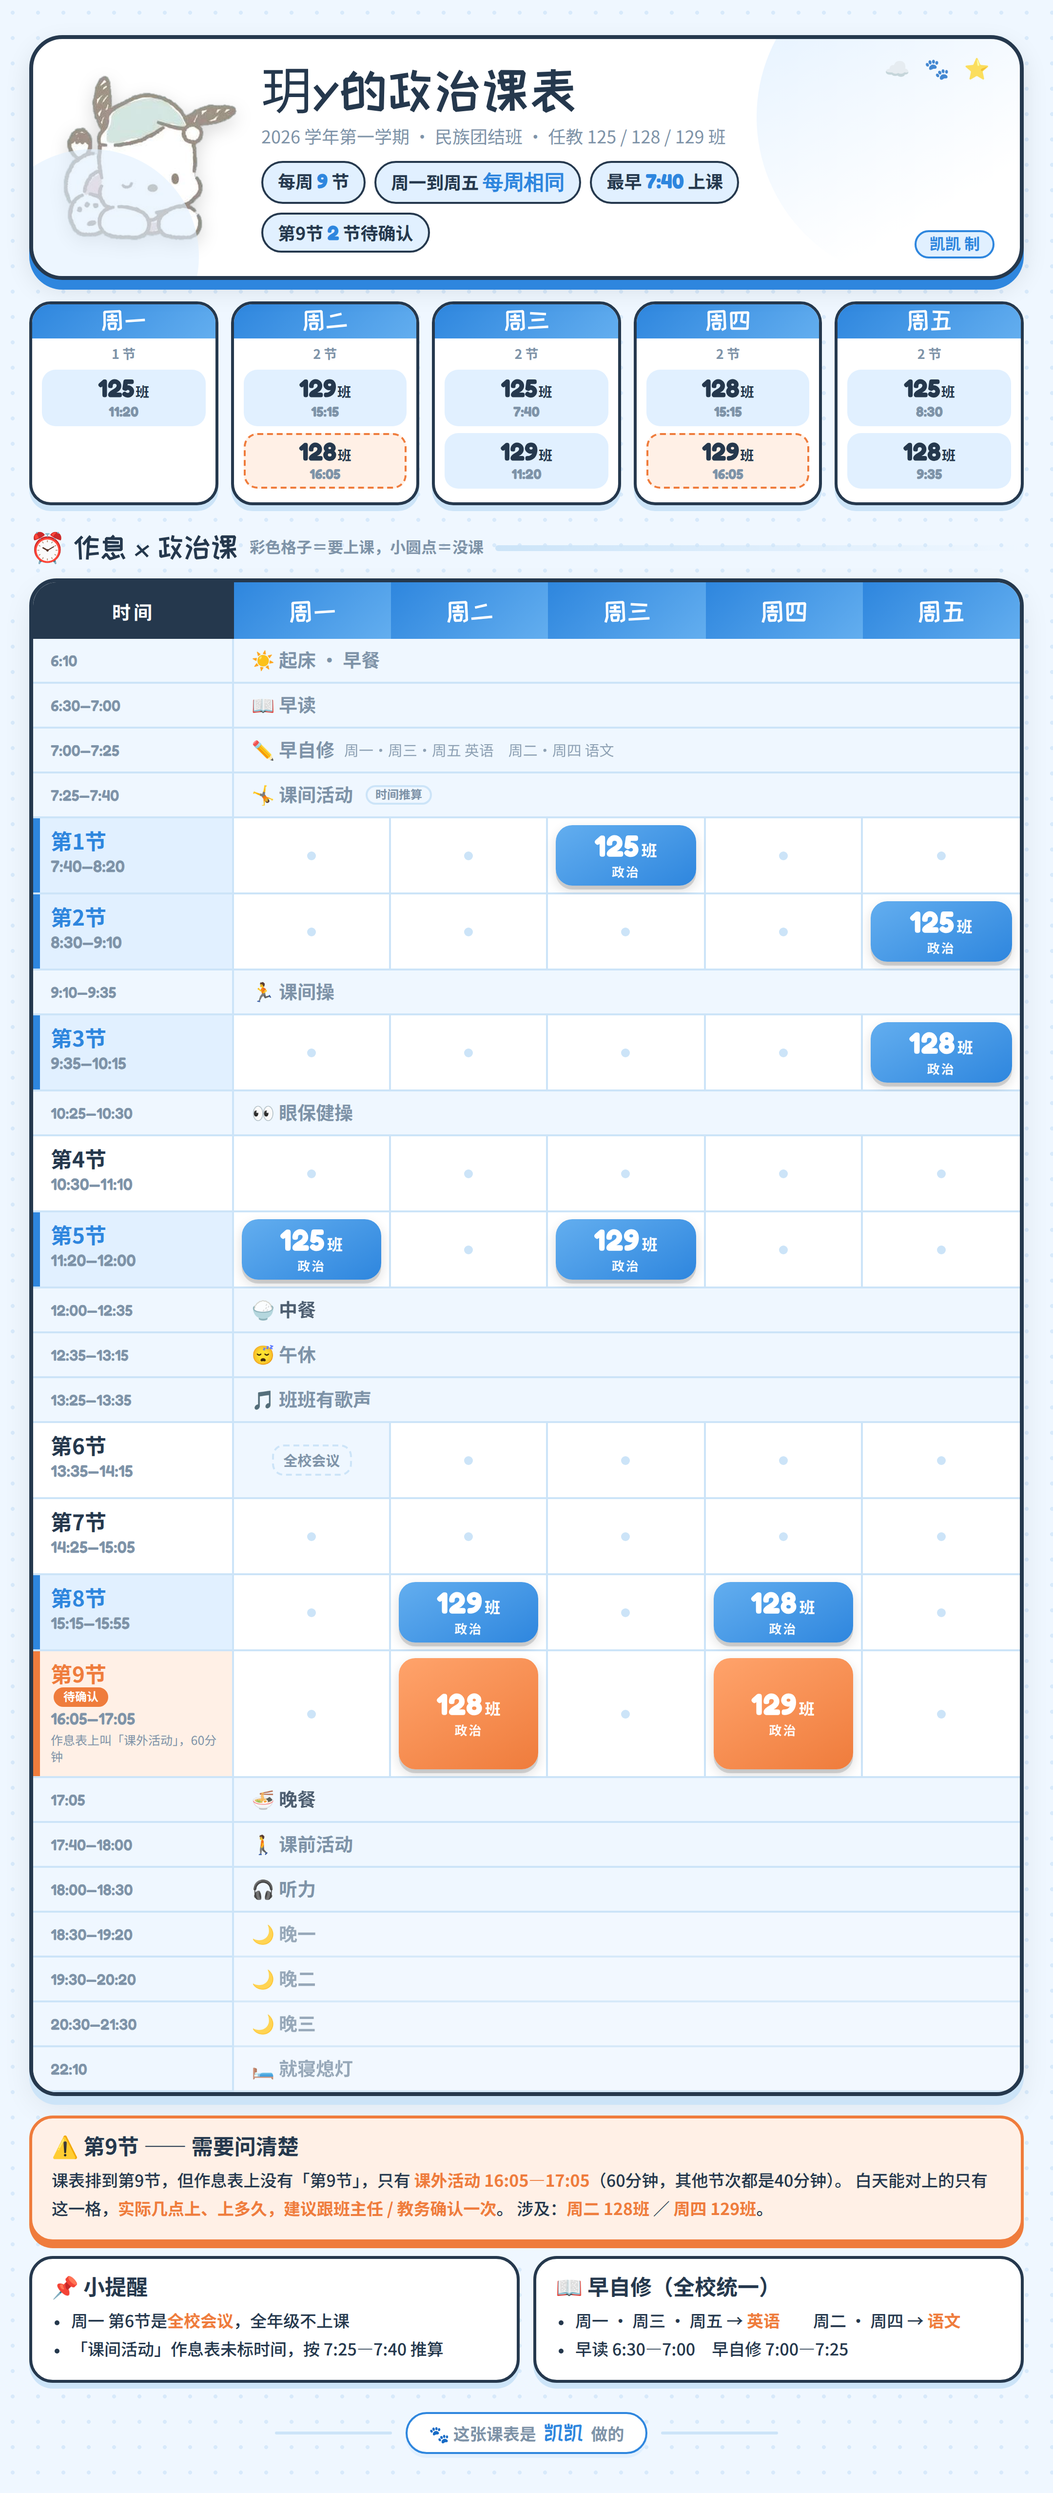
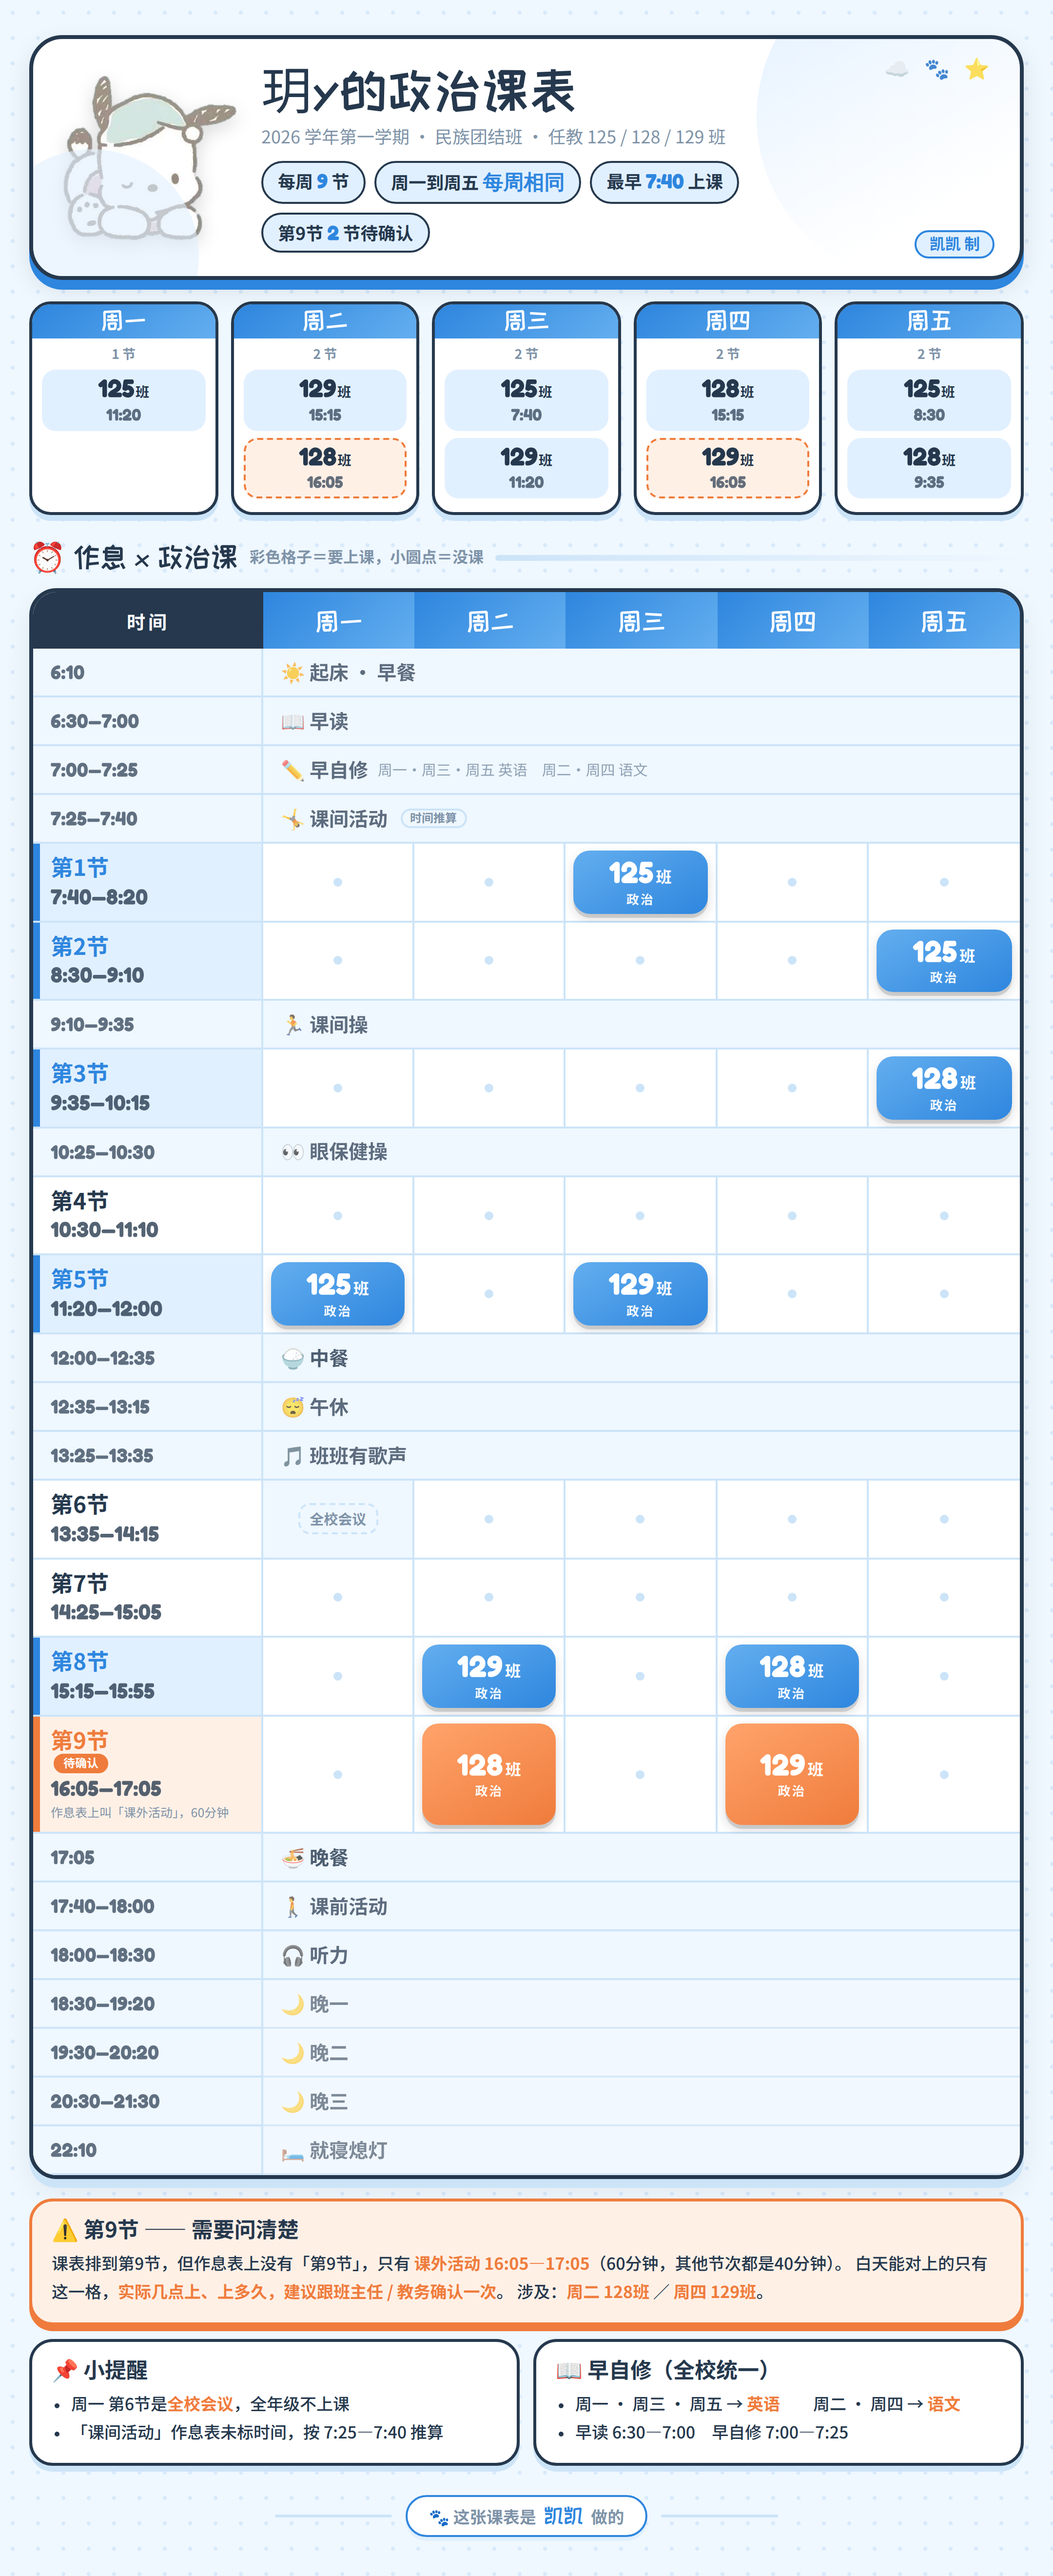
Enlarge and darken the schedule times for readability
Times were 17px in a light grey that was hard to read at a glance. Period times
go to 22px and routine-band times to 20px, both in the ink colour at reduced
opacity, with the time column widened to 236px so no range wraps.

Claude-Session: https://claude.ai/code/session_01PkbQVBneuAgKa97Dwj4CEX

diff --git a/timetable/tt_bunny.html b/timetable/tt_bunny.html
@@ -46,7 +46,7 @@ h1 small{display:block;font-size:18px;color:var(--muted);margin-top:8px;letter-s
 .gl__i b{display:block;font-size:26px;font-family:'Fredoka',sans-serif;line-height:1.05;color:var(--ink)}
 .gl__i b em{font-size:14px;font-style:normal;font-weight:700;margin-left:1px;
             font-family:'Noto Sans SC',sans-serif}
-.gl__i span{display:block;font-size:14.5px;color:var(--muted);font-weight:700;margin-top:1px}
+.gl__i span{display:block;font-size:17px;color:var(--ink);opacity:.7;font-weight:700;margin-top:2px}
 .gl__i--nine{background:var(--warnbg);outline:2.5px dashed var(--warn);outline-offset:-2px}
 
 /* ---------- 主表 ---------- */
@@ -55,7 +55,7 @@ h2{font-size:30px}
 .sec__hd .kicker{font-size:16px;color:var(--muted);font-weight:700}
 .sec__hd .bar{flex:1;height:6px;border-radius:99px;
               background:linear-gradient(90deg,var(--line),transparent)}
-.grid{display:grid;grid-template-columns:206px repeat(5,1fr);
+.grid{display:grid;grid-template-columns:236px repeat(5,1fr);
       background:var(--card);border:4px solid var(--ink);border-radius:28px;overflow:hidden;
       box-shadow:0 9px 0 var(--line),0 12px 30px rgba(0,0,0,.07)}
 .hd{background:linear-gradient(135deg,var(--brand),var(--brand2));color:#fff;font-size:27px;
@@ -65,11 +65,12 @@ h2{font-size:30px}
        font-family:'Noto Sans SC',sans-serif;letter-spacing:3px}
 .tc{padding:11px 8px 11px 18px;border-bottom:2px solid var(--line);border-right:2px solid var(--line);
     background:var(--card)}
-.tc b{display:block;font-size:22px;font-weight:800;line-height:1.2}
-.tc i{display:block;font-style:normal;font-size:17px;color:var(--muted);font-weight:600;margin-top:2px}
+.tc b{display:block;font-size:23px;font-weight:800;line-height:1.2}
+.tc i{display:block;font-style:normal;font-size:22px;color:var(--ink);opacity:.78;
+      font-weight:700;margin-top:3px;letter-spacing:.3px}
 .tc em{display:block;font-style:normal;font-size:12.5px;color:var(--muted);margin-top:3px;line-height:1.35}
 .tc--soft{display:flex;align-items:center;background:var(--bg)}
-.tc--soft i{font-size:16px;margin:0}
+.tc--soft i{font-size:20px;margin:0;opacity:.7;font-weight:700}
 .tc--mine{background:var(--soft);box-shadow:inset 7px 0 0 var(--brand)}
 .tc--mine b{color:var(--brand)}
 .tc--warn{background:var(--warnbg);box-shadow:inset 7px 0 0 var(--warn)}
@@ -94,8 +95,8 @@ h2{font-size:30px}
 .c--note span{font-size:14.5px;color:var(--muted);font-weight:700;border:2px dashed var(--line);
               border-radius:12px;padding:5px 10px}
 .bd{grid-column:2 / -1;border-bottom:2px solid var(--line);background:var(--bg);
-    display:flex;align-items:center;gap:10px;padding:9px 18px;min-height:46px}
-.bd__n{font-size:19px;font-weight:700;color:var(--muted)}
+    display:flex;align-items:center;gap:10px;padding:9px 18px;min-height:50px}
+.bd__n{font-size:20px;font-weight:700;color:var(--ink);opacity:.72}
 .bd__s{font-size:15px;color:var(--muted);opacity:.85}
 .bd--night{opacity:.8}
 .bd--meal .bd__n{color:var(--ink);opacity:.8}

diff --git a/timetable/tt_kitty.html b/timetable/tt_kitty.html
@@ -46,7 +46,7 @@ h1 small{display:block;font-size:18px;color:var(--muted);margin-top:8px;letter-s
 .gl__i b{display:block;font-size:26px;font-family:'Fredoka',sans-serif;line-height:1.05;color:var(--ink)}
 .gl__i b em{font-size:14px;font-style:normal;font-weight:700;margin-left:1px;
             font-family:'Noto Sans SC',sans-serif}
-.gl__i span{display:block;font-size:14.5px;color:var(--muted);font-weight:700;margin-top:1px}
+.gl__i span{display:block;font-size:17px;color:var(--ink);opacity:.7;font-weight:700;margin-top:2px}
 .gl__i--nine{background:var(--warnbg);outline:2.5px dashed var(--warn);outline-offset:-2px}
 
 /* ---------- 主表 ---------- */
@@ -55,7 +55,7 @@ h2{font-size:30px}
 .sec__hd .kicker{font-size:16px;color:var(--muted);font-weight:700}
 .sec__hd .bar{flex:1;height:6px;border-radius:99px;
               background:linear-gradient(90deg,var(--line),transparent)}
-.grid{display:grid;grid-template-columns:206px repeat(5,1fr);
+.grid{display:grid;grid-template-columns:236px repeat(5,1fr);
       background:var(--card);border:4px solid var(--ink);border-radius:28px;overflow:hidden;
       box-shadow:0 9px 0 var(--line),0 12px 30px rgba(0,0,0,.07)}
 .hd{background:linear-gradient(135deg,var(--brand),var(--brand2));color:#fff;font-size:27px;
@@ -65,11 +65,12 @@ h2{font-size:30px}
        font-family:'Noto Sans SC',sans-serif;letter-spacing:3px}
 .tc{padding:11px 8px 11px 18px;border-bottom:2px solid var(--line);border-right:2px solid var(--line);
     background:var(--card)}
-.tc b{display:block;font-size:22px;font-weight:800;line-height:1.2}
-.tc i{display:block;font-style:normal;font-size:17px;color:var(--muted);font-weight:600;margin-top:2px}
+.tc b{display:block;font-size:23px;font-weight:800;line-height:1.2}
+.tc i{display:block;font-style:normal;font-size:22px;color:var(--ink);opacity:.78;
+      font-weight:700;margin-top:3px;letter-spacing:.3px}
 .tc em{display:block;font-style:normal;font-size:12.5px;color:var(--muted);margin-top:3px;line-height:1.35}
 .tc--soft{display:flex;align-items:center;background:var(--bg)}
-.tc--soft i{font-size:16px;margin:0}
+.tc--soft i{font-size:20px;margin:0;opacity:.7;font-weight:700}
 .tc--mine{background:var(--soft);box-shadow:inset 7px 0 0 var(--brand)}
 .tc--mine b{color:var(--brand)}
 .tc--warn{background:var(--warnbg);box-shadow:inset 7px 0 0 var(--warn)}
@@ -94,8 +95,8 @@ h2{font-size:30px}
 .c--note span{font-size:14.5px;color:var(--muted);font-weight:700;border:2px dashed var(--line);
               border-radius:12px;padding:5px 10px}
 .bd{grid-column:2 / -1;border-bottom:2px solid var(--line);background:var(--bg);
-    display:flex;align-items:center;gap:10px;padding:9px 18px;min-height:46px}
-.bd__n{font-size:19px;font-weight:700;color:var(--muted)}
+    display:flex;align-items:center;gap:10px;padding:9px 18px;min-height:50px}
+.bd__n{font-size:20px;font-weight:700;color:var(--ink);opacity:.72}
 .bd__s{font-size:15px;color:var(--muted);opacity:.85}
 .bd--night{opacity:.8}
 .bd--meal .bd__n{color:var(--ink);opacity:.8}

diff --git a/timetable/tt_puppy.html b/timetable/tt_puppy.html
@@ -46,7 +46,7 @@ h1 small{display:block;font-size:18px;color:var(--muted);margin-top:8px;letter-s
 .gl__i b{display:block;font-size:26px;font-family:'Fredoka',sans-serif;line-height:1.05;color:var(--ink)}
 .gl__i b em{font-size:14px;font-style:normal;font-weight:700;margin-left:1px;
             font-family:'Noto Sans SC',sans-serif}
-.gl__i span{display:block;font-size:14.5px;color:var(--muted);font-weight:700;margin-top:1px}
+.gl__i span{display:block;font-size:17px;color:var(--ink);opacity:.7;font-weight:700;margin-top:2px}
 .gl__i--nine{background:var(--warnbg);outline:2.5px dashed var(--warn);outline-offset:-2px}
 
 /* ---------- 主表 ---------- */
@@ -55,7 +55,7 @@ h2{font-size:30px}
 .sec__hd .kicker{font-size:16px;color:var(--muted);font-weight:700}
 .sec__hd .bar{flex:1;height:6px;border-radius:99px;
               background:linear-gradient(90deg,var(--line),transparent)}
-.grid{display:grid;grid-template-columns:206px repeat(5,1fr);
+.grid{display:grid;grid-template-columns:236px repeat(5,1fr);
       background:var(--card);border:4px solid var(--ink);border-radius:28px;overflow:hidden;
       box-shadow:0 9px 0 var(--line),0 12px 30px rgba(0,0,0,.07)}
 .hd{background:linear-gradient(135deg,var(--brand),var(--brand2));color:#fff;font-size:27px;
@@ -65,11 +65,12 @@ h2{font-size:30px}
        font-family:'Noto Sans SC',sans-serif;letter-spacing:3px}
 .tc{padding:11px 8px 11px 18px;border-bottom:2px solid var(--line);border-right:2px solid var(--line);
     background:var(--card)}
-.tc b{display:block;font-size:22px;font-weight:800;line-height:1.2}
-.tc i{display:block;font-style:normal;font-size:17px;color:var(--muted);font-weight:600;margin-top:2px}
+.tc b{display:block;font-size:23px;font-weight:800;line-height:1.2}
+.tc i{display:block;font-style:normal;font-size:22px;color:var(--ink);opacity:.78;
+      font-weight:700;margin-top:3px;letter-spacing:.3px}
 .tc em{display:block;font-style:normal;font-size:12.5px;color:var(--muted);margin-top:3px;line-height:1.35}
 .tc--soft{display:flex;align-items:center;background:var(--bg)}
-.tc--soft i{font-size:16px;margin:0}
+.tc--soft i{font-size:20px;margin:0;opacity:.7;font-weight:700}
 .tc--mine{background:var(--soft);box-shadow:inset 7px 0 0 var(--brand)}
 .tc--mine b{color:var(--brand)}
 .tc--warn{background:var(--warnbg);box-shadow:inset 7px 0 0 var(--warn)}
@@ -94,8 +95,8 @@ h2{font-size:30px}
 .c--note span{font-size:14.5px;color:var(--muted);font-weight:700;border:2px dashed var(--line);
               border-radius:12px;padding:5px 10px}
 .bd{grid-column:2 / -1;border-bottom:2px solid var(--line);background:var(--bg);
-    display:flex;align-items:center;gap:10px;padding:9px 18px;min-height:46px}
-.bd__n{font-size:19px;font-weight:700;color:var(--muted)}
+    display:flex;align-items:center;gap:10px;padding:9px 18px;min-height:50px}
+.bd__n{font-size:20px;font-weight:700;color:var(--ink);opacity:.72}
 .bd__s{font-size:15px;color:var(--muted);opacity:.85}
 .bd--night{opacity:.8}
 .bd--meal .bd__n{color:var(--ink);opacity:.8}

diff --git a/timetable/build.py b/timetable/build.py
@@ -242,7 +242,7 @@ h1 small{display:block;font-size:18px;color:var(--muted);margin-top:8px;letter-s
 .gl__i b{display:block;font-size:26px;font-family:'Fredoka',sans-serif;line-height:1.05;color:var(--ink)}
 .gl__i b em{font-size:14px;font-style:normal;font-weight:700;margin-left:1px;
             font-family:'Noto Sans SC',sans-serif}
-.gl__i span{display:block;font-size:14.5px;color:var(--muted);font-weight:700;margin-top:1px}
+.gl__i span{display:block;font-size:17px;color:var(--ink);opacity:.7;font-weight:700;margin-top:2px}
 .gl__i--nine{background:var(--warnbg);outline:2.5px dashed var(--warn);outline-offset:-2px}
 
 /* ---------- 主表 ---------- */
@@ -251,7 +251,7 @@ h2{font-size:30px}
 .sec__hd .kicker{font-size:16px;color:var(--muted);font-weight:700}
 .sec__hd .bar{flex:1;height:6px;border-radius:99px;
               background:linear-gradient(90deg,var(--line),transparent)}
-.grid{display:grid;grid-template-columns:206px repeat(5,1fr);
+.grid{display:grid;grid-template-columns:236px repeat(5,1fr);
       background:var(--card);border:4px solid var(--ink);border-radius:28px;overflow:hidden;
       box-shadow:0 9px 0 var(--line),0 12px 30px rgba(0,0,0,.07)}
 .hd{background:linear-gradient(135deg,var(--brand),var(--brand2));color:#fff;font-size:27px;
@@ -261,11 +261,12 @@ h2{font-size:30px}
        font-family:'Noto Sans SC',sans-serif;letter-spacing:3px}
 .tc{padding:11px 8px 11px 18px;border-bottom:2px solid var(--line);border-right:2px solid var(--line);
     background:var(--card)}
-.tc b{display:block;font-size:22px;font-weight:800;line-height:1.2}
-.tc i{display:block;font-style:normal;font-size:17px;color:var(--muted);font-weight:600;margin-top:2px}
+.tc b{display:block;font-size:23px;font-weight:800;line-height:1.2}
+.tc i{display:block;font-style:normal;font-size:22px;color:var(--ink);opacity:.78;
+      font-weight:700;margin-top:3px;letter-spacing:.3px}
 .tc em{display:block;font-style:normal;font-size:12.5px;color:var(--muted);margin-top:3px;line-height:1.35}
 .tc--soft{display:flex;align-items:center;background:var(--bg)}
-.tc--soft i{font-size:16px;margin:0}
+.tc--soft i{font-size:20px;margin:0;opacity:.7;font-weight:700}
 .tc--mine{background:var(--soft);box-shadow:inset 7px 0 0 var(--brand)}
 .tc--mine b{color:var(--brand)}
 .tc--warn{background:var(--warnbg);box-shadow:inset 7px 0 0 var(--warn)}
@@ -290,8 +291,8 @@ h2{font-size:30px}
 .c--note span{font-size:14.5px;color:var(--muted);font-weight:700;border:2px dashed var(--line);
               border-radius:12px;padding:5px 10px}
 .bd{grid-column:2 / -1;border-bottom:2px solid var(--line);background:var(--bg);
-    display:flex;align-items:center;gap:10px;padding:9px 18px;min-height:46px}
-.bd__n{font-size:19px;font-weight:700;color:var(--muted)}
+    display:flex;align-items:center;gap:10px;padding:9px 18px;min-height:50px}
+.bd__n{font-size:20px;font-weight:700;color:var(--ink);opacity:.72}
 .bd__s{font-size:15px;color:var(--muted);opacity:.85}
 .bd--night{opacity:.8}
 .bd--meal .bd__n{color:var(--ink);opacity:.8}
